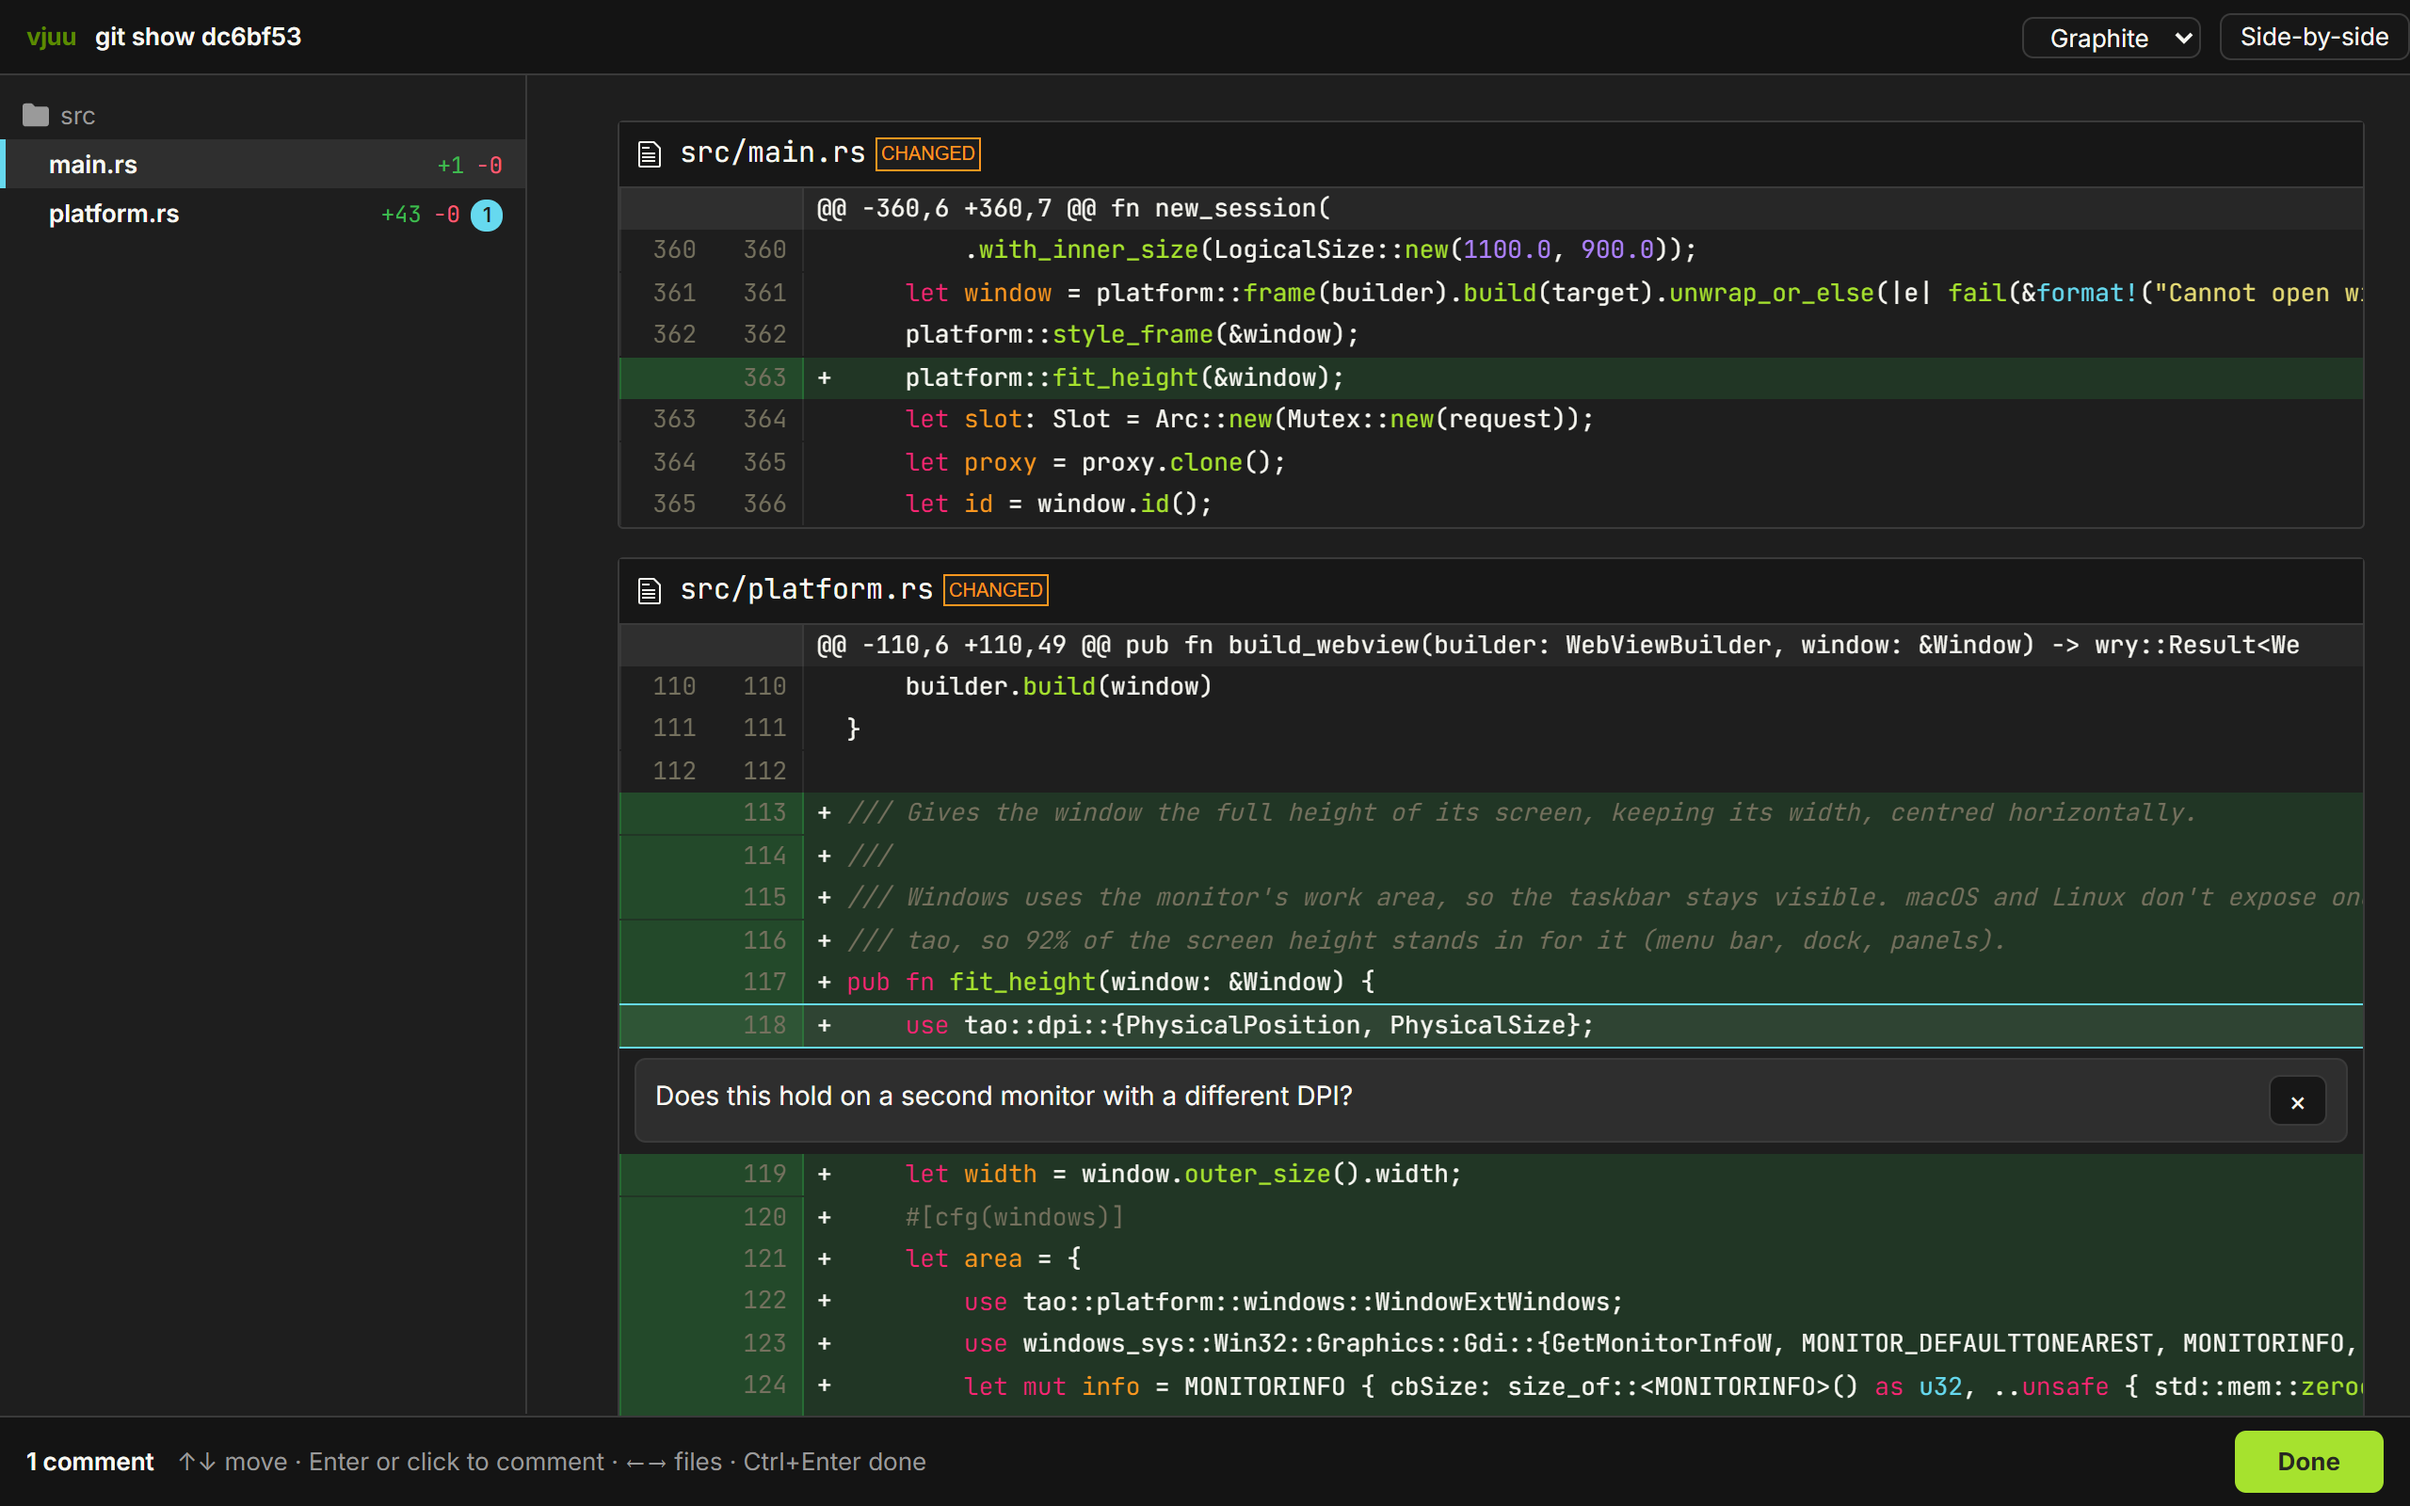
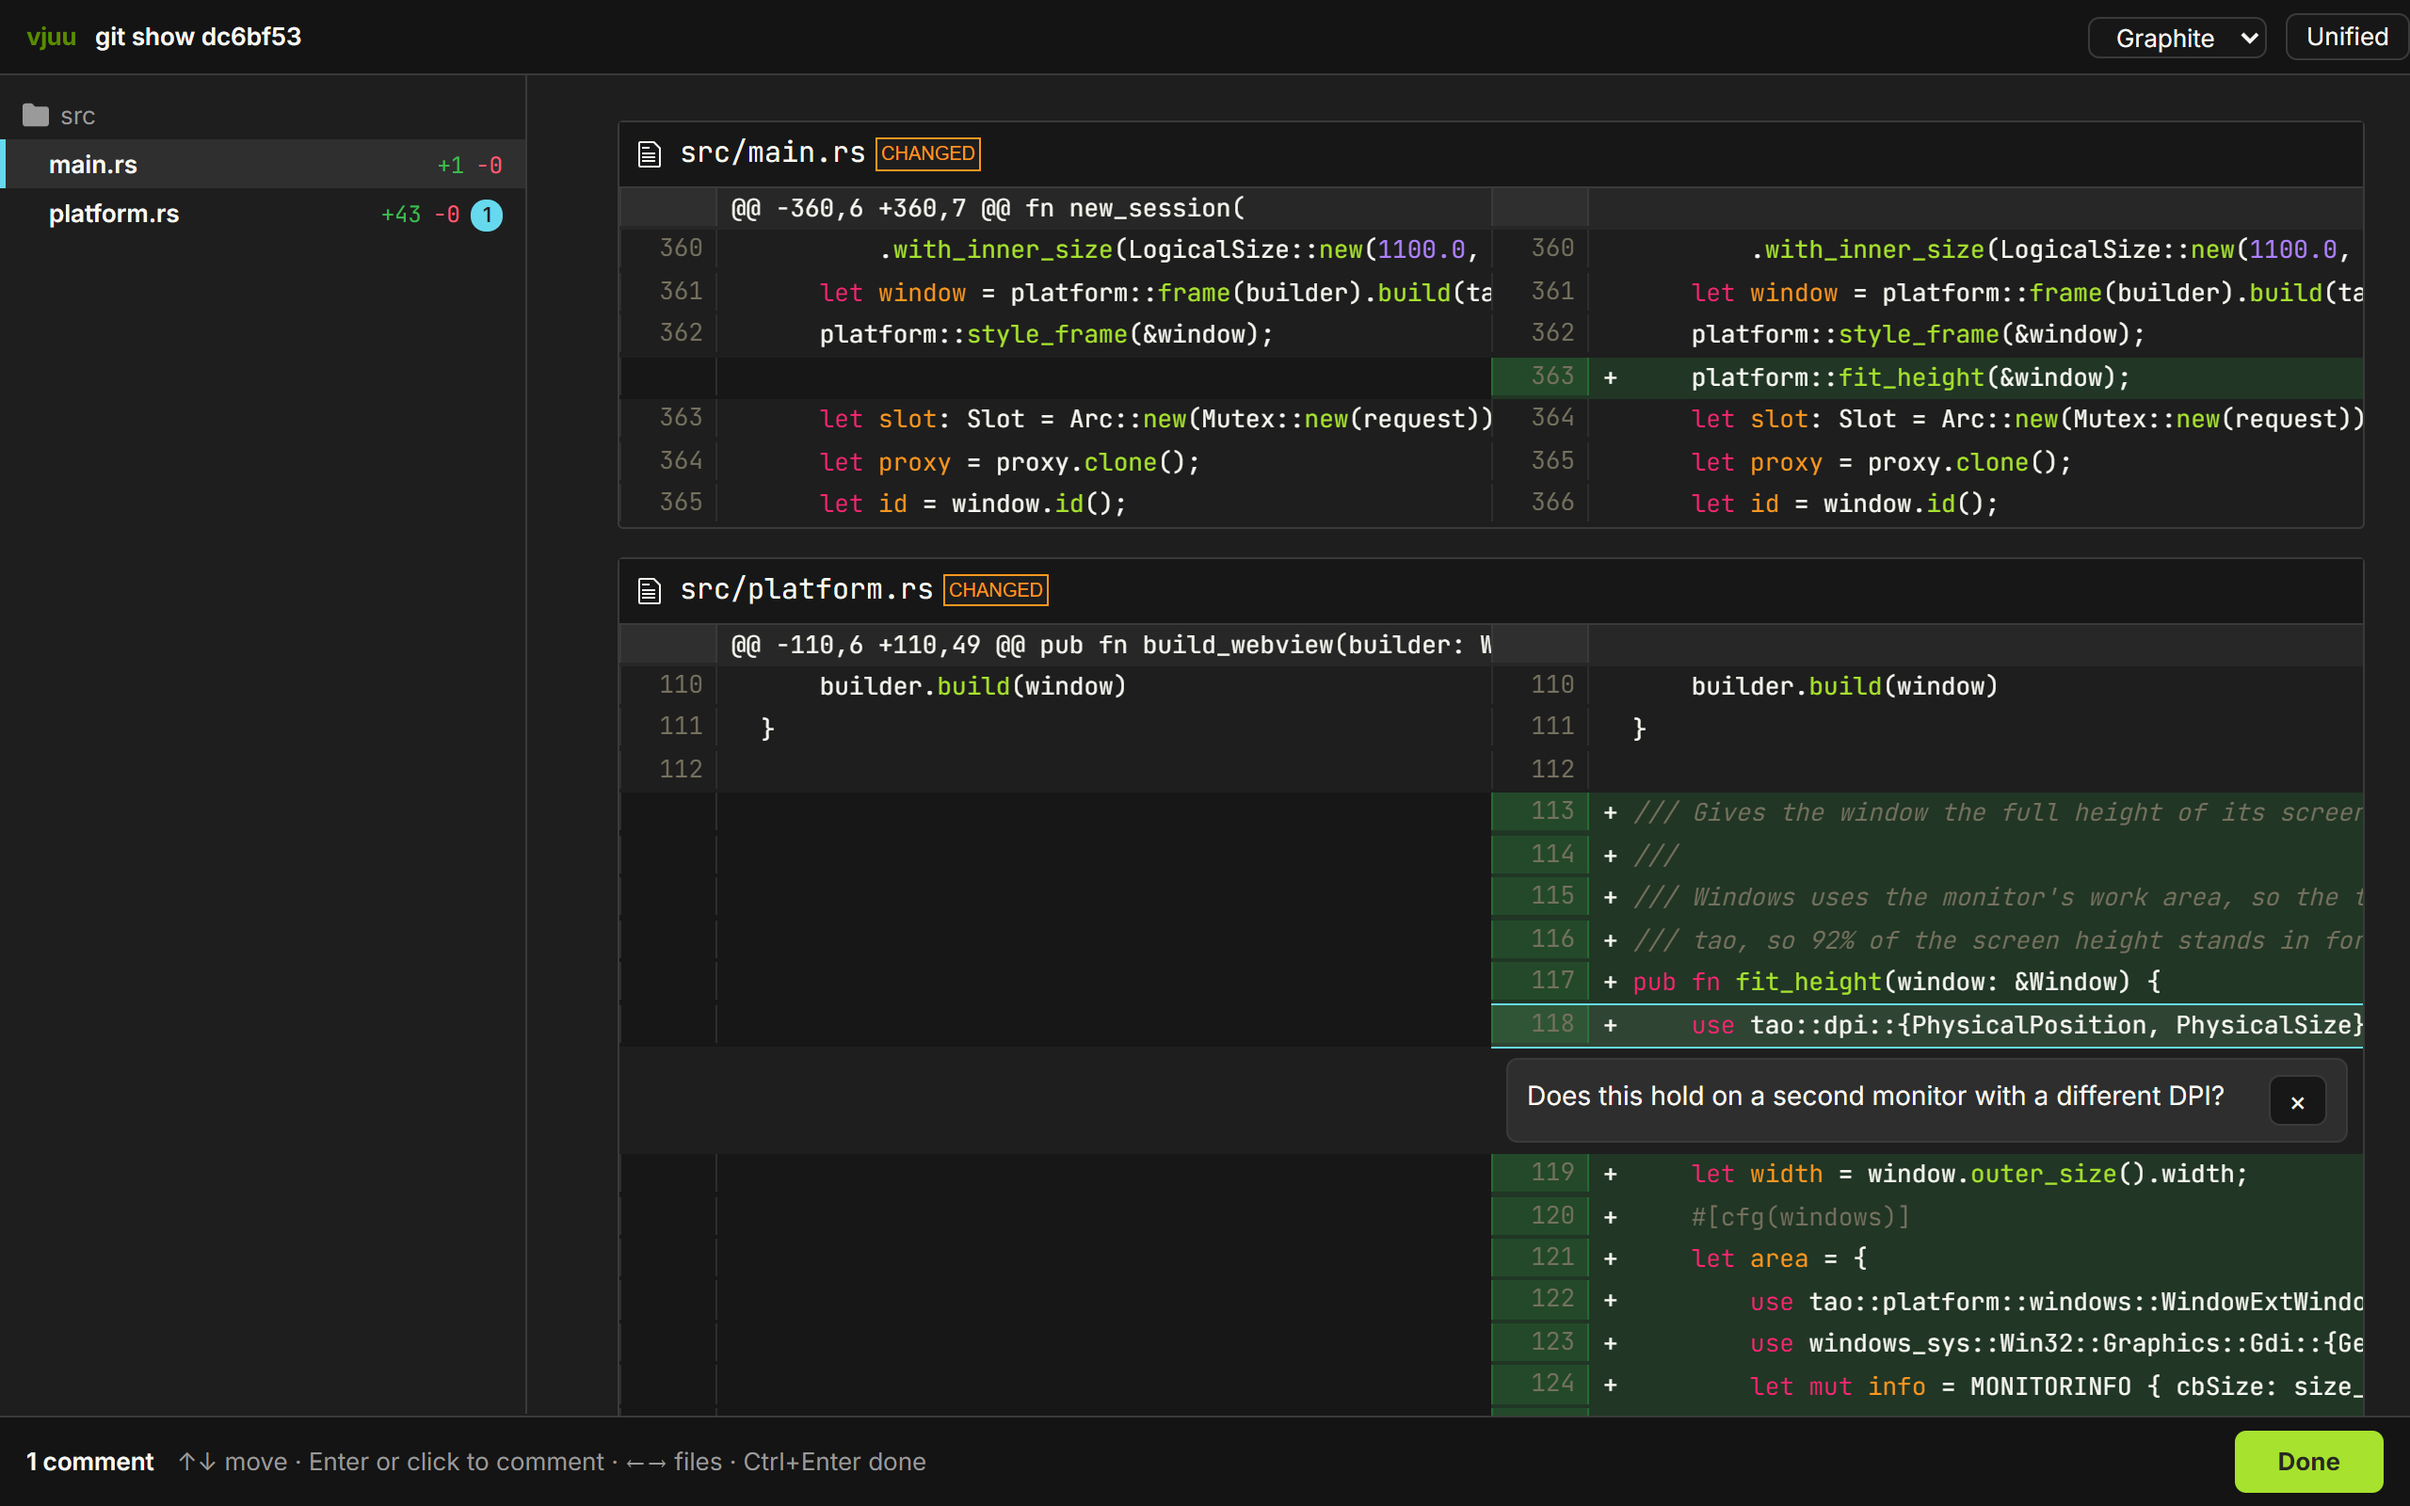
Add a light-mode screenshot; dark diff goes side by side
Dark shows the diff side by side, light shows it unified.

diff --git a/site/index.html b/site/index.html
@@ -287,8 +287,12 @@
           <figcaption>A plan, with a comment on two of its lines.</figcaption>
         </figure>
         <figure class="shot">
-          <img src="img/diff.png" width="2560" height="1600" loading="lazy" alt="vjuu showing a syntax-highlighted Rust diff with a comment under one added line and a file list on the left.">
-          <figcaption>A diff, with a comment under the added line.</figcaption>
+          <img src="img/diff.png" width="2560" height="1600" loading="lazy" alt="vjuu showing a syntax-highlighted Rust diff side by side, with a comment under one added line and a file tree on the left.">
+          <figcaption>A diff side by side, with a comment under the added line.</figcaption>
+        </figure>
+        <figure class="shot">
+          <img src="img/light.png" width="2560" height="1600" loading="lazy" alt="The same diff unified, in vjuu's light theme, with the comment under the added line.">
+          <figcaption>Unified, in light mode, if that's what you're into.</figcaption>
         </figure>
       </div>
     </section>

diff --git a/tests/screenshots.py b/tests/screenshots.py
@@ -15,7 +15,7 @@ from playwright.sync_api import sync_playwright
 
 _ROOT = Path(__file__).resolve().parent.parent
 _IMG = _ROOT / 'site' / 'img'
-_STUB = 'window.ipc = { postMessage: () => {} }; localStorage.setItem("vjuu-theme", "graphite");'
+_STUB = 'window.ipc = { postMessage: () => {} }; localStorage.setItem("vjuu-theme", "%s");'
 _PLAN = """# Plan: resident window
 
 The first `vjuu` opens its own window. Every later call should appear at once.
@@ -66,7 +66,7 @@ def main():
         url = f'http://127.0.0.1:{server.server_port}/'
         browser = p.chromium.launch(channel='msedge')
         page = browser.new_page(viewport={'width': 1280, 'height': 800}, device_scale_factor=2)
-        page.add_init_script(_STUB)
+        page.add_init_script(_STUB % 'graphite')
 
         _shoot(page, url, work, {'name': 'docs/plan.md', 'kind': 'md', 'text': _PLAN})
         page.get_by_text('Hand each new document').click()
@@ -77,11 +77,21 @@ def main():
         page.screenshot(path=_IMG / 'markdown.png')
 
         _shoot(page, url, work, {'name': 'git show dc6bf53', 'kind': 'diff', 'text': diff})
-        page.wait_for_selector('.d2h-code-line-ctn .hljs-keyword')
+        page.keyboard.press('v')  # side-by-side
+        page.wait_for_selector('.d2h-code-side-line .hljs-keyword')
         page.locator('tr', has=page.locator('.d2h-ins')).nth(6).click()
         _comment(page, 'Does this hold on a second monitor with a different DPI?')
         page.mouse.click(5, 5)
         page.screenshot(path=_IMG / 'diff.png')
+
+        light = browser.new_page(viewport={'width': 1280, 'height': 800}, device_scale_factor=2)
+        light.add_init_script(_STUB % 'light')
+        _shoot(light, url, work, {'name': 'git show dc6bf53', 'kind': 'diff', 'text': diff})
+        light.wait_for_selector('.d2h-code-line-ctn .hljs-keyword')
+        light.locator('tr', has=light.locator('.d2h-ins')).nth(6).click()
+        _comment(light, 'Does this hold on a second monitor with a different DPI?')
+        light.mouse.click(5, 5)
+        light.screenshot(path=_IMG / 'light.png')
         browser.close()
         server.shutdown()
 
